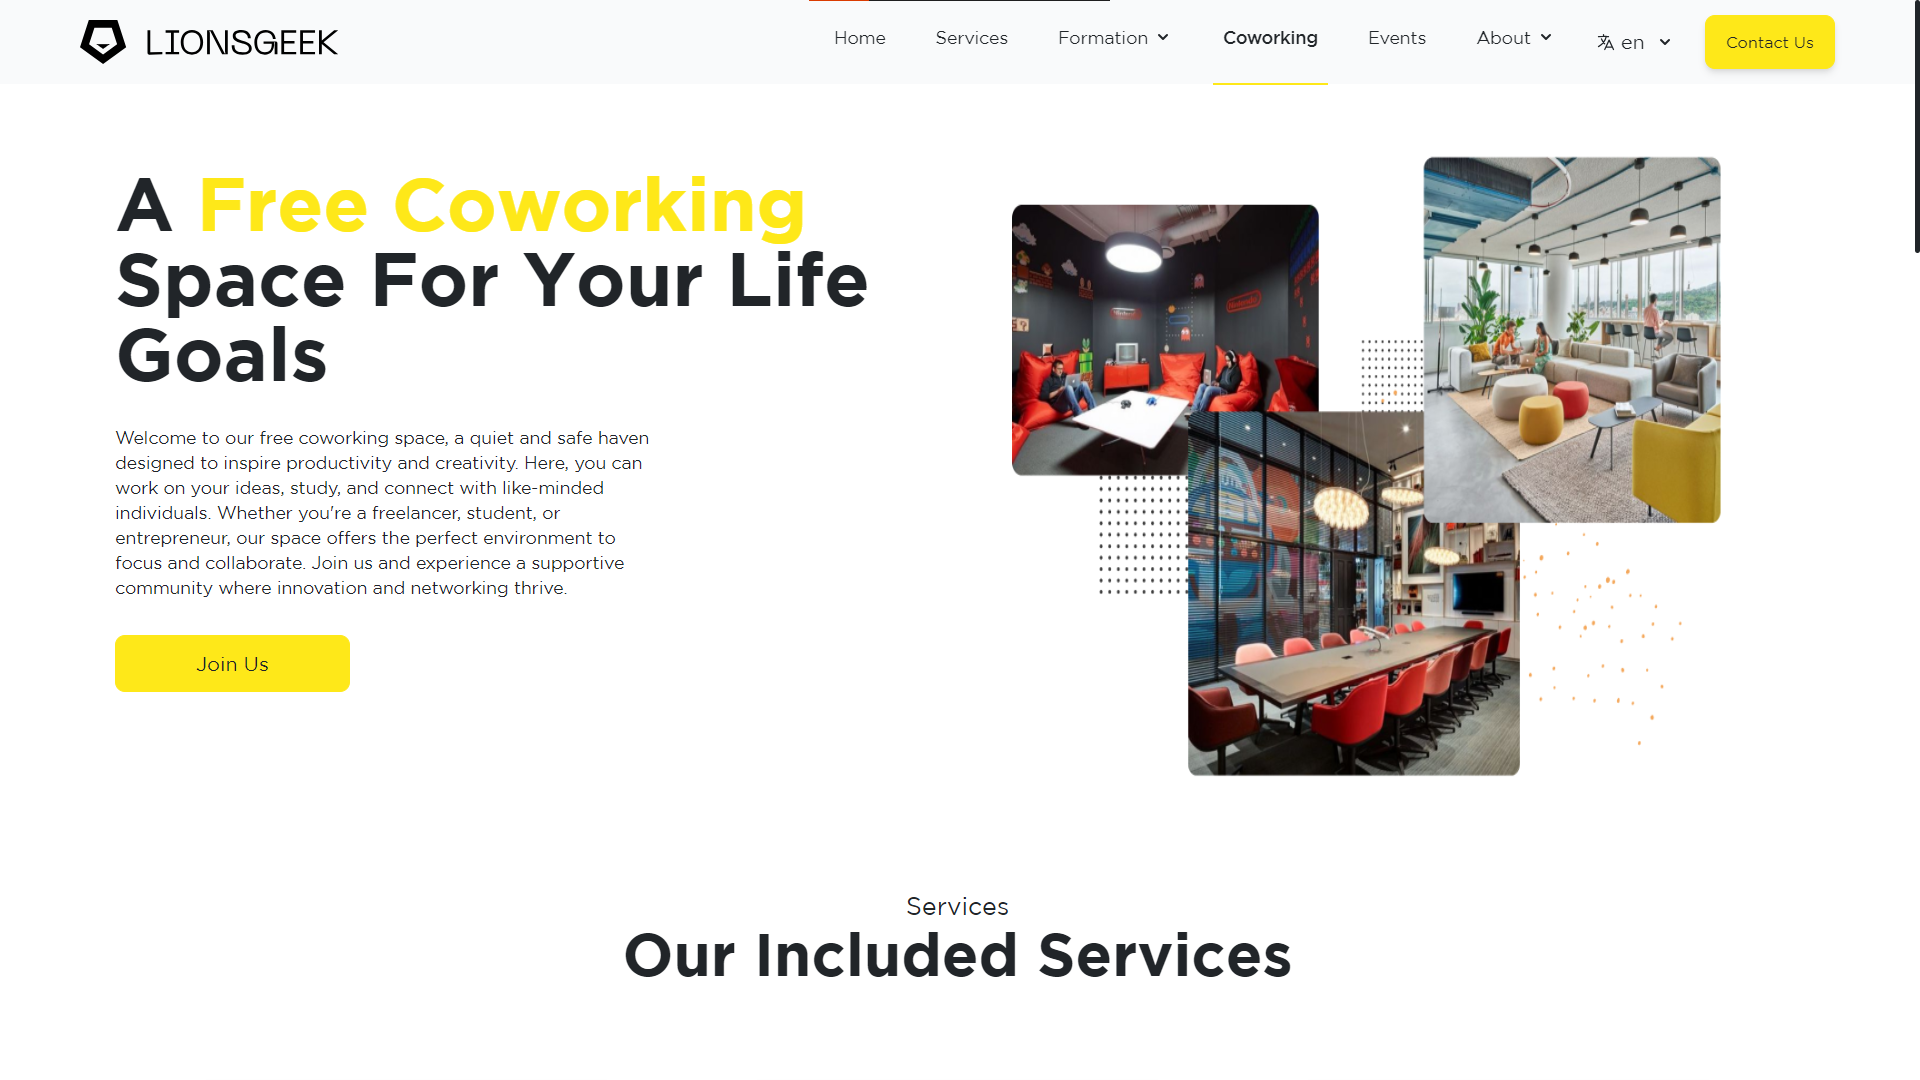
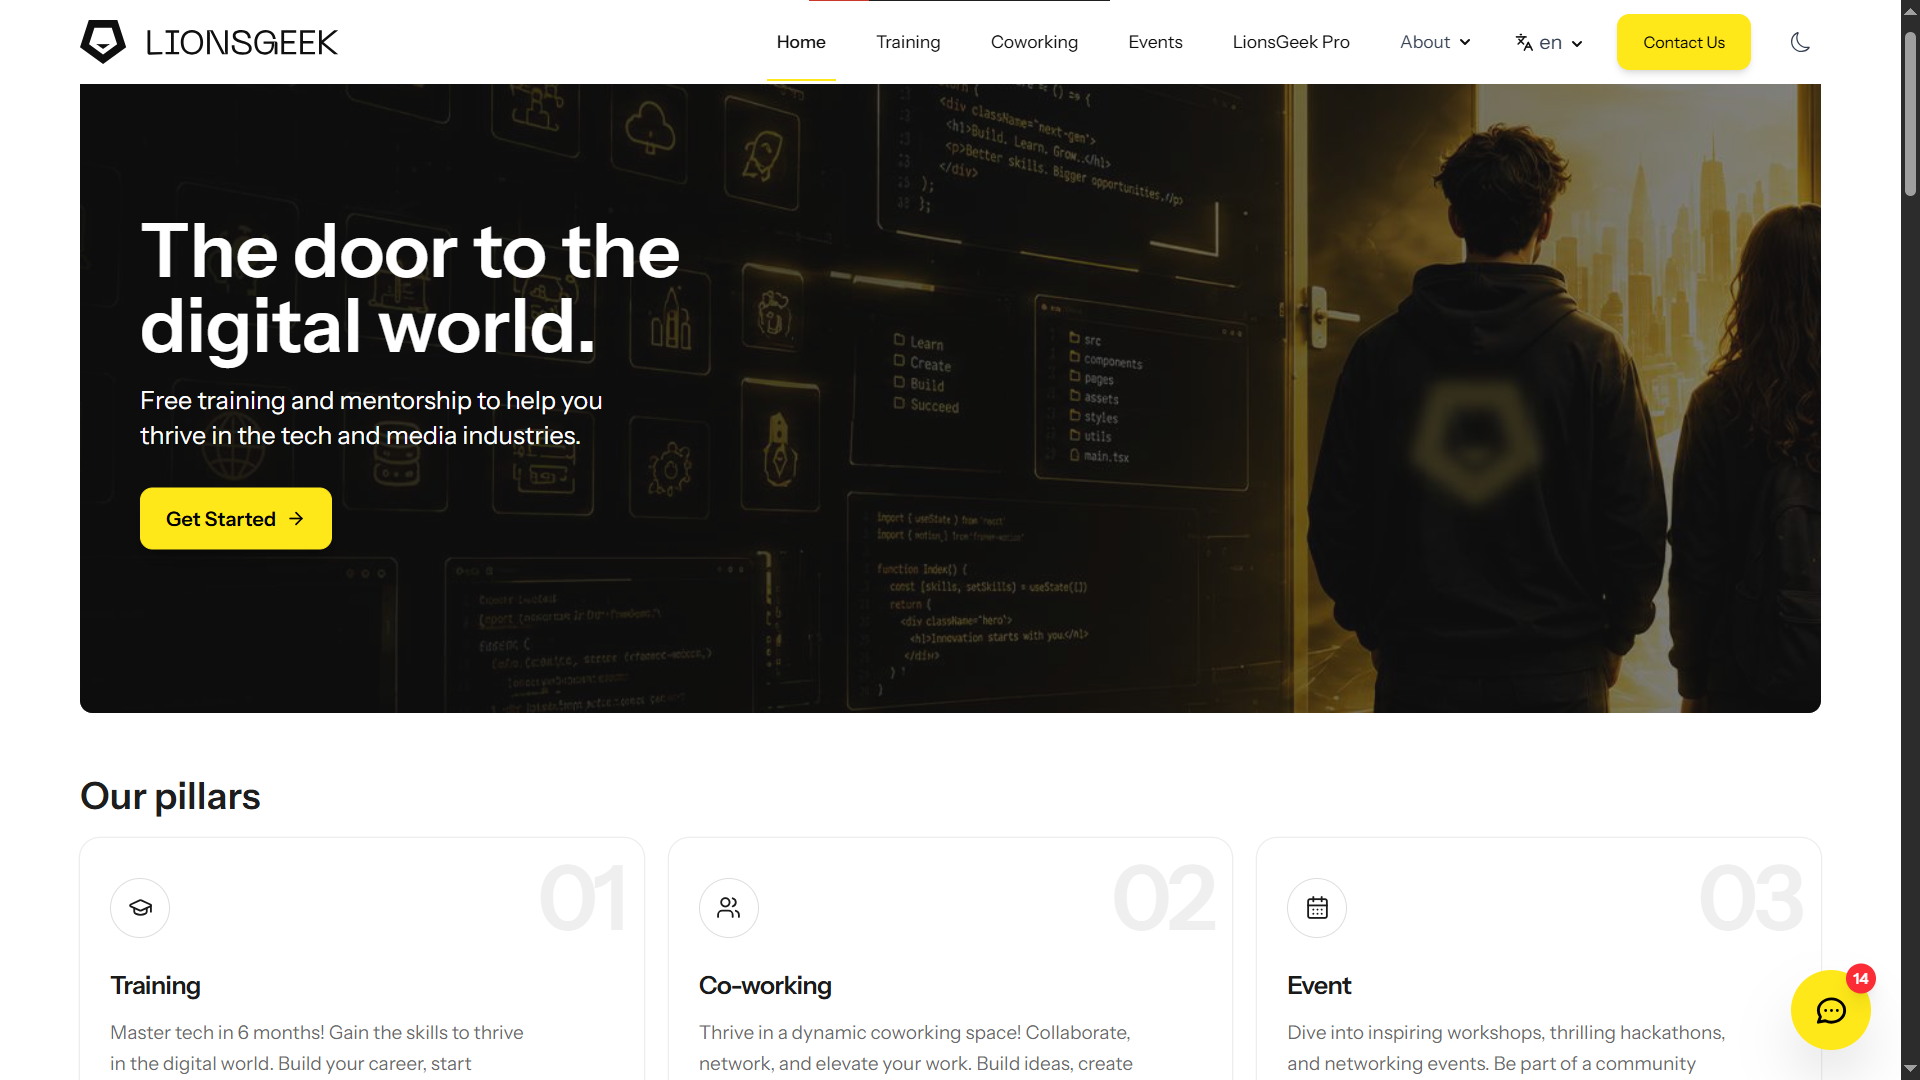
feat: update project details and add new projects to AppContext; enhance navigation and modal components

diff --git a/src/context/AppContext.jsx b/src/context/AppContext.jsx
@@ -13,6 +13,10 @@ import hd4h from "../assets/images/projects/hd4h.gif"
 import tililab_judge from "../assets/images/projects/tililab_judge.jpg"
 import ecb from "../assets/images/projects/ecb.jpg"
 import a1 from "../assets/images/projects/a1.gif"
+import tihadazemmour from "../assets/images/projects/taw.gif"
+import tilila from "../assets/images/projects/tilila.gif"
+import biggred from "../assets/images/projects/biggred.gif"
+import lionsgeek_mobile from "../assets/images/projects/lg-mobile.png"
 
 
 const AppContext = createContext();
@@ -22,11 +26,11 @@ const AppProvider = ({ children }) => {
 
   let projects = [
     {
-      name: "My LionsGeek",
-      link: "https://mylionsgeek.ma/",
-      description: "A robust Laravel-based platform for managing training center operations, including reservations, session planning, admin tasks, and user roles. It helps streamline coordination between trainers, learners, and administrators.",
-      image: mlg,
-      technologies: ["Laravel"],
+      name: "LionsGeek",
+      link: "https://lionsgeek.vercel.app/",
+      description: "An engaging React platform showcasing the LionsGeek initiative, highlighting youth empowerment through digital upskilling, project incubation, and leadership coaching across Africa.",
+      image: lionsgeek,
+      technologies: ["React"],
       repo: null
     },
     {
@@ -35,6 +39,62 @@ const AppProvider = ({ children }) => {
       description: "A React Native mobile app providing users with circuit-based navigation, cultural events, and user activity tracking around Casablanca. It aims to elevate local tourism by combining interactive experiences and guided tours.",
       image: casatourat,
       technologies: ["React Native"],
+      repo: null
+    },
+    {
+      name: "Tihad Azemmour Women",
+      link: "https://tihadazemmourwomen.ma/",
+      description: "Official website of Club Union Sportive Azemmour Féminin – Tihad Azemmour, a women’s football club based in Azemmour, Morocco. The platform features a shop and an admin backoffice for managing line-ups, team convocations, finances, and the store. It presents the club’s sporting, educational, and social mission, highlighting youth development across Senior, U17, and U15 categories and its Sport for Development initiatives for young girls in the region.",
+      image: tihadazemmour,
+      technologies: ["Laravel - Inertia"],
+      repo: null
+    },
+    {
+      name: "Atelier A1",
+      link: "https://ateliera1.com/",
+      description: "Official website of Atelier A1, a Moroccan architecture and urban design agency founded by Abderrahim Kassou and Mustapha Chakib. The site presents the agency’s philosophy, multidisciplinary expertise, and a diverse portfolio of architectural, urban planning, and landscape projects developed across various scales.",
+      image: a1,
+      technologies: ["Laravel - Inertia"],
+      repo: null
+    },
+    {
+      name: "Écoles Belges au Maroc",
+      link: "https://ecolebelgue.mylionsgeek.ma",
+      description: "Official admissions and information platform for the Établissements scolaires Belges au Maroc, operating under the educational program of the Fédération Wallonie-Bruxelles. The website provides families with structured guidance on the admission process, academic vision, and essential school information through an online application system.",
+      image: ecb,
+      technologies: ["Laravel - Inertia"],
+      repo: null
+    },
+    {
+      name: "YES Africa",
+      link: "https://youthempowermentsummit.africa/",
+      description: "The official React-powered web presence of the YES Africa movement. It presents the summit’s mission, past editions, partnerships, and call-to-action for youth-driven impact across the continent.",
+      image: yes,
+      technologies: ["React"],
+      repo: null
+    },
+    {
+      name: "Bigg Red",
+      link: "https://beta.biggred.com/",
+      description: "A premium e-commerce platform for elite tech and consumer electronics, featuring product catalogs, flash sales with countdown timers, curated new arrivals, and custom accessory personalization. Built to deliver a polished shopping experience with exclusive offers and early-access memberships.",
+      image: biggred,
+      technologies: ["Laravel - Inertia"],
+      repo: null
+    },
+    {
+      name: "My LionsGeek",
+      link: "https://mylionsgeek.ma/",
+      description: "A robust Laravel-based platform for managing training center operations, including reservations, session planning, admin tasks, and user roles. It helps streamline coordination between trainers, learners, and administrators.",
+      image: mlg,
+      technologies: ["Laravel"],
+      repo: null
+    },
+    {
+      name: "Casatourat Dashboard",
+      link: "https://casatourat.ma/",
+      description: "A Laravel-based dashboard built to manage the Casatourat mobile app content including cultural circuits, real-time data, user behavior, and event content management.",
+      image: casatourat_backend,
+      technologies: ["Laravel"],
       repo: null
     },
     {
@@ -54,38 +114,13 @@ const AppProvider = ({ children }) => {
       repo: null
     },
     {
-      name: "LionsGeek",
-      link: "https://lionsgeek.vercel.app/",
-      description: "An engaging React platform showcasing the LionsGeek initiative, highlighting youth empowerment through digital upskilling, project incubation, and leadership coaching across Africa.",
-      image: lionsgeek,
-      technologies: ["React"],
+      name: "LionsGeek Mobile",
+      link: "https://play.google.com/store/apps/details?id=com.lionsgeek_pro.lionsgeek&hl=en",
+      description: "Official companion app for the LionsGeek community, helping students, coaches, and admins stay connected and organized. It supports workspace booking, training tracking, community updates, event reservations with capacity checks, and QR or manual check-in for participants.",
+      image: lionsgeek_mobile,
+      technologies: ["React Native"],
       repo: null
     },
-    {
-      name: "Atelier A1",
-      link: "https://ateliera1.com/",
-      description: "Official website of Atelier A1, a Moroccan architecture and urban design agency founded by Abderrahim Kassou and Mustapha Chakib. The site presents the agency’s philosophy, multidisciplinary expertise, and a diverse portfolio of architectural, urban planning, and landscape projects developed across various scales.",
-      image: a1,
-      technologies: ["Laravel - Inertia"],
-      repo: null
-    },
-    {
-      name: "YES Africa",
-      link: "https://youthempowermentsummit.africa/",
-      description: "The official React-powered web presence of the YES Africa movement. It presents the summit’s mission, past editions, partnerships, and call-to-action for youth-driven impact across the continent.",
-      image: yes,
-      technologies: ["React"],
-      repo: null
-    },
-    {
-      name: "Écoles Belges au Maroc",
-      link: "https://ecolebelgue.mylionsgeek.ma",
-      description: "Official admissions and information platform for the Établissements scolaires Belges au Maroc, operating under the educational program of the Fédération Wallonie-Bruxelles. The website provides families with structured guidance on the admission process, academic vision, and essential school information through an online application system.",
-      image: ecb,
-      technologies: ["Laravel - Inertia"],
-      repo: null
-    },
-
     {
       name: "Her Day for Her",
       link: "https://herdayforher.ma/",
@@ -94,28 +129,12 @@ const AppProvider = ({ children }) => {
       technologies: ["Laravel - Inertia"],
       repo: null
     },
-    // {
-    //   name: "Yes Backend",
-    //   link: "https://management.youthempowermentsummit.africa/",
-    //   description: "A Laravel admin dashboard used to manage the YES platform’s users, event schedules, speaker profiles, and access control. It supports detailed analytics and multi-role user permissions.",
-    //   image: yes_backend,
-    //   technologies: ["Laravel"],
-    //   repo: null
-    // },
     {
-      name: "Casatourat Dashboard",
-      link: "https://casatourat.ma/",
-      description: "A Laravel-based dashboard built to manage the Casatourat mobile app content including cultural circuits, real-time data, user behavior, and event content management.",
-      image: casatourat_backend,
-      technologies: ["Laravel"],
-      repo: null
-    },
-    {
-      name: "Yes Mobile Dashboard",
-      link: "https://app.youthempowermentsummit.africa/",
-      description: "Backend system for Yes Mobile app, developed with Laravel to manage users, programs, notifications, and mobile app content with security-first admin access.",
-      image: yesMobile_backend,
-      technologies: ["Laravel"],
+      name: "Tilila",
+      link: "https://tilila.org/",
+      description: "Official platform of SOREAD-2M’s Tilila program for equity, diversity, and inclusion in Morocco. It hosts Tilila Awards applications for inclusive advertising campaigns and Tililab, a creative incubator supporting agencies and advertisers committed to more equitable representation in the media.",
+      image: tilila,
+      technologies: ["Laravel - Inertia"],
       repo: null
     },
     {
@@ -126,7 +145,22 @@ const AppProvider = ({ children }) => {
       technologies: ["Laravel - Inertia"],
       repo: "https://github.com/forkanimahdi/tililab_judge.git"
     },
-
+    // {
+    //   name: "Yes Backend",
+    //   link: "https://management.youthempowermentsummit.africa/",
+    //   description: "A Laravel admin dashboard used to manage the YES platform’s users, event schedules, speaker profiles, and access control. It supports detailed analytics and multi-role user permissions.",
+    //   image: yes_backend,
+    //   technologies: ["Laravel"],
+    //   repo: null
+    // },
+    {
+      name: "Yes Mobile Dashboard",
+      link: "https://app.youthempowermentsummit.africa/",
+      description: "Backend system for Yes Mobile app, developed with Laravel to manage users, programs, notifications, and mobile app content with security-first admin access.",
+      image: yesMobile_backend,
+      technologies: ["Laravel"],
+      repo: null
+    },
   ];
 
 

diff --git a/src/layouts/Navigation.jsx b/src/layouts/Navigation.jsx
@@ -3,6 +3,7 @@ import { FaLinkedinIn } from "react-icons/fa6";
 import { FaGithub } from "react-icons/fa";
 import { RiMenu3Line, RiCloseLine } from "react-icons/ri";
 import { useState, useEffect } from "react";
+import { useLocation } from "react-router-dom";
 import AnimatedCursor from "react-animated-cursor";
 import { motion, AnimatePresence } from "framer-motion";
 
@@ -10,14 +11,18 @@ export const Navigation = () => {
     const naviger = ["home", "about", "projects", "clients", "contact"];
     const [nav, setNav] = useState(false);
     const [scrolled, setScrolled] = useState(false);
+    const location = useLocation();
+    const isProjectsPage = location.pathname === "/projects";
 
     useEffect(() => {
         const handleScroll = () => {
-            setScrolled(window.scrollY > window.innerHeight * 0.9);
+            const threshold = isProjectsPage ? 10 : window.innerHeight * 0.9;
+            setScrolled(window.scrollY > threshold);
         };
+        handleScroll();
         window.addEventListener("scroll", handleScroll);
         return () => window.removeEventListener("scroll", handleScroll);
-    }, []);
+    }, [isProjectsPage]);
 
     const handleNavClick = (e) => {
         if (e.target.id === "backdrop") setNav(false);
@@ -44,7 +49,7 @@ export const Navigation = () => {
             </div>
 
             {/* Main Navbar */}
-            <div className={`fixed top-0 left-0 w-full z-50 transition-all duration-500 ${scrolled ? "bg-black" : "bg-transparent"} lg:h-[10vh] py-2 lg:py-0 h-fit flex lg:flex-row flex-col lg:justify-between items-center px-6 lg:px-16`}>
+            <div className={`fixed top-0 left-0 w-full z-[100] transition-all duration-500 ${scrolled ? "bg-black/80 backdrop-blur-md border-b border-white/10" : "bg-transparent"} lg:h-[10vh] py-2 lg:py-0 h-fit flex lg:flex-row flex-col lg:justify-between items-center px-6 lg:px-16`}>
                 {/* Logo + Mobile Toggle */}
                 <div className="w-full lg:w-auto flex items-center justify-between">
                     <a href="/">
@@ -100,7 +105,7 @@ export const Navigation = () => {
                         animate={{ opacity: 1 }}
                         exit={{ opacity: 0 }}
                         transition={{ duration: 0.4 }}
-                        className="fixed top-0 left-0 h-screen w-full bg-black/80 backdrop-blur-lg z-40 flex justify-center items-center"
+                        className="fixed top-0 left-0 h-screen w-full bg-black/80 backdrop-blur-lg z-[90] flex justify-center items-center"
                         onClick={handleNavClick}
                     >
                         <motion.div

diff --git a/src/pages/projects/components/showModalProject.jsx b/src/pages/projects/components/showModalProject.jsx
@@ -6,6 +6,7 @@ import { FiExternalLink, FiGithub, FiX, FiCode, FiCalendar, FiUsers } from 'reac
 
 const ShowModalProject = () => {
     const { selectedProject, setSelectedProject } = useAppContext();
+    const isMobileApp = selectedProject?.technologies?.includes("React Native");
 
     useEffect(() => {
         const onKey = (e) => {
@@ -37,7 +38,7 @@ const ShowModalProject = () => {
                     exit={{ opacity: 0 }}
                     transition={{ duration: 0.6, ease: 'easeInOut' }}
                     onClick={handleBackdropClick}
-                    className="fixed inset-0 z-50 bg-black/70 backdrop-blur-md flex items-center justify-center px-4"
+                    className="fixed inset-0 z-[200] bg-black/70 backdrop-blur-md flex items-center justify-center px-4"
                 >
                     <motion.div
                         initial={{ y: 100, scale: 0.9, opacity: 0 }}
@@ -127,7 +128,7 @@ const ShowModalProject = () => {
                                     rel="noreferrer"
                                     className="flex-1 py-3 text-center bg-white text-black rounded-xl hover:bg-gray-200 transition font-semibold border border-white/10"
                                 >
-                                    Live Website
+                                    {isMobileApp ? "Download App" : "Live Website"}
                                 </a>
                                 {selectedProject.repo && (
                                     <a

diff --git a/src/layouts/scrollBar.jsx b/src/layouts/scrollBar.jsx
@@ -34,7 +34,7 @@ export const ScrollBar = () => {
 
     return (
         <>
-            <div className="w-full h-1 z-50 fixed top-0">
+            <div className="w-full h-1 z-[110] fixed top-0">
                 <div style={{ width: `${scrollPercent}%`, transition: "0.7s ease" }} className="h-full bg-white scrollNav"></div>
             </div>
 
